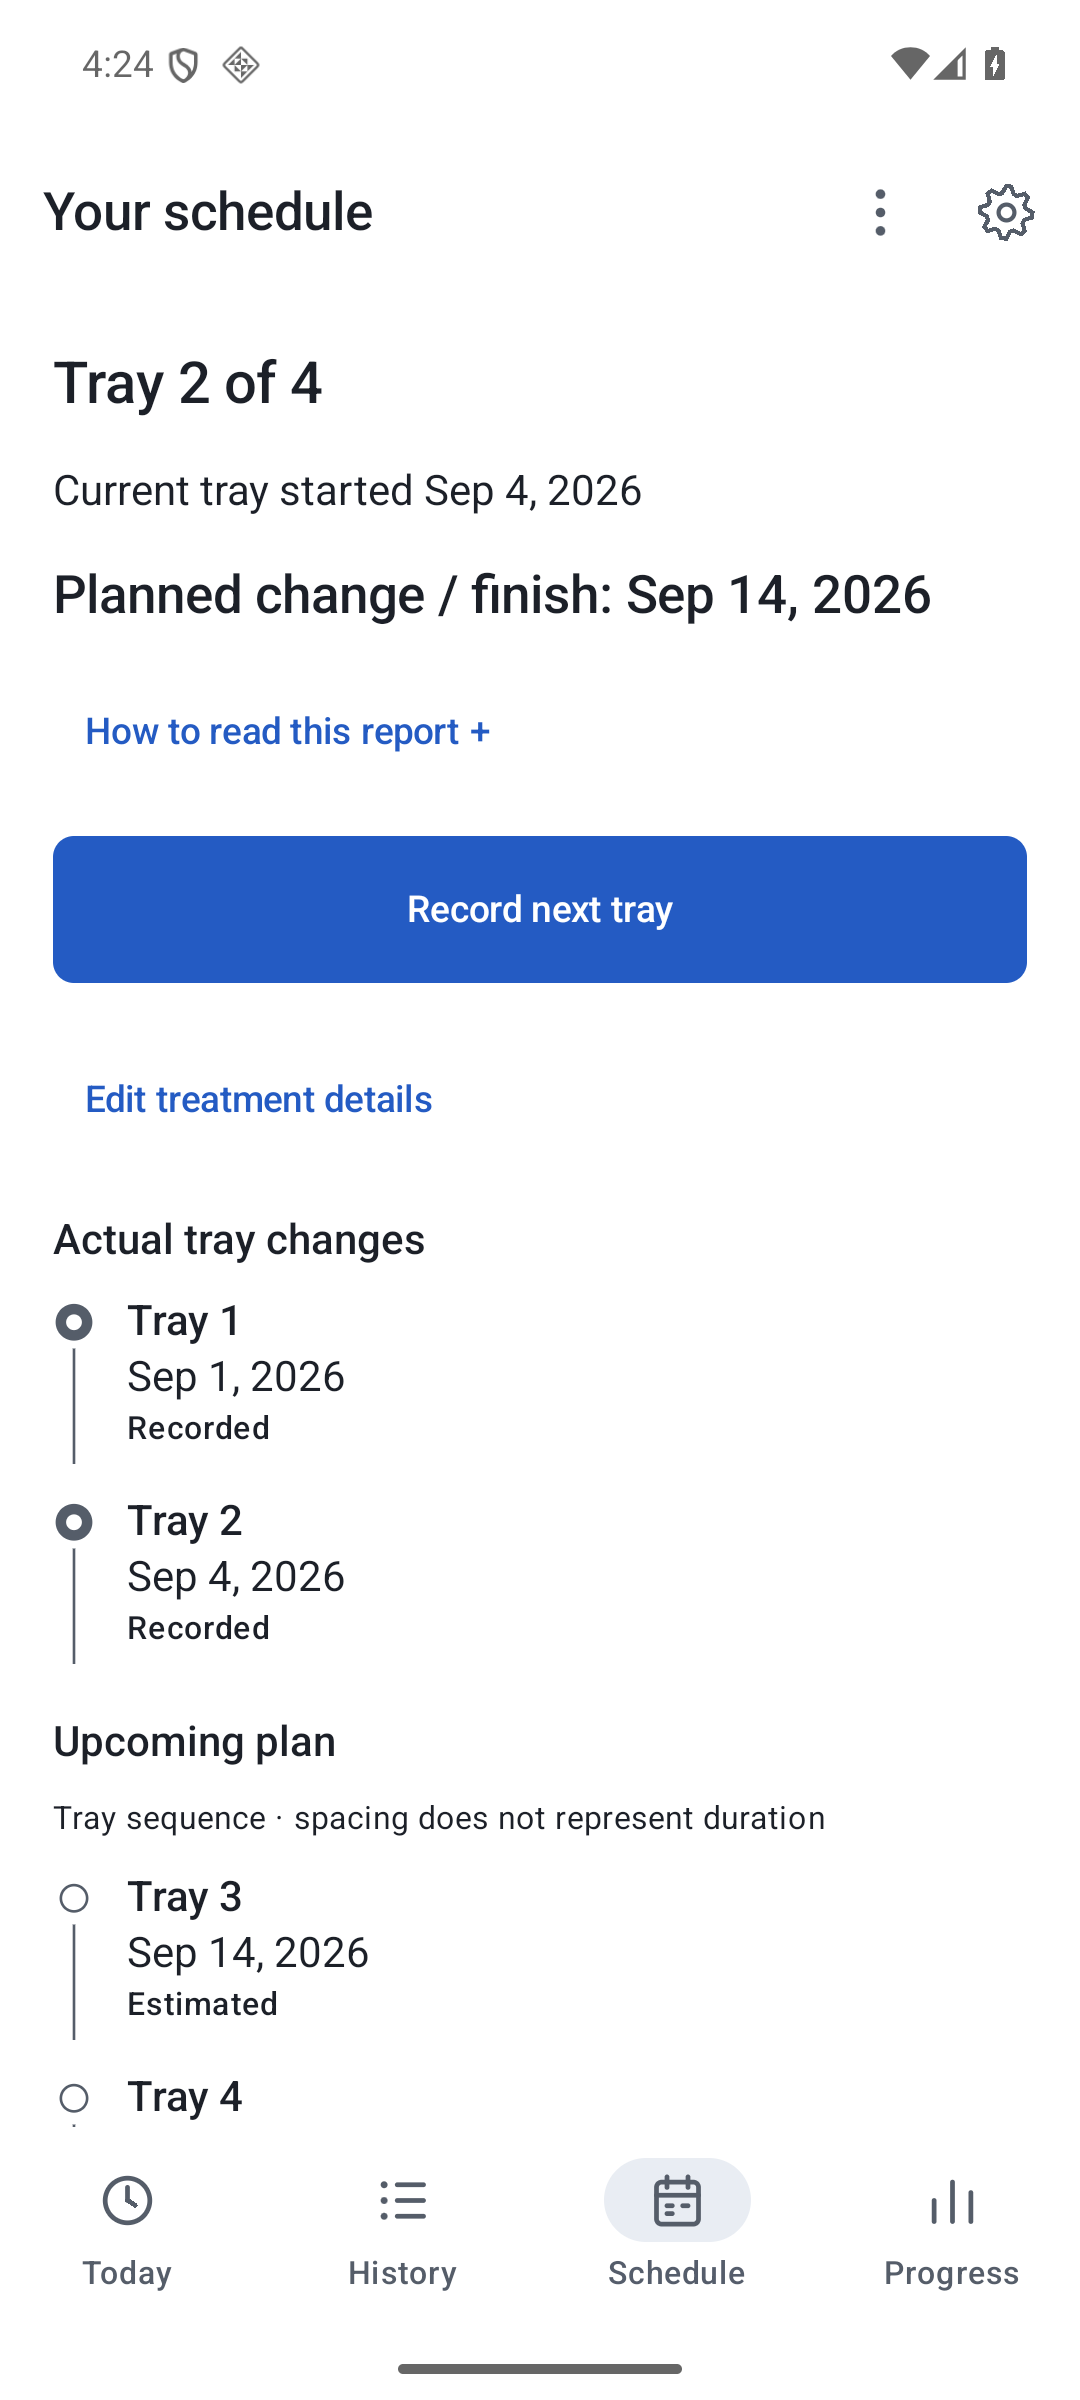
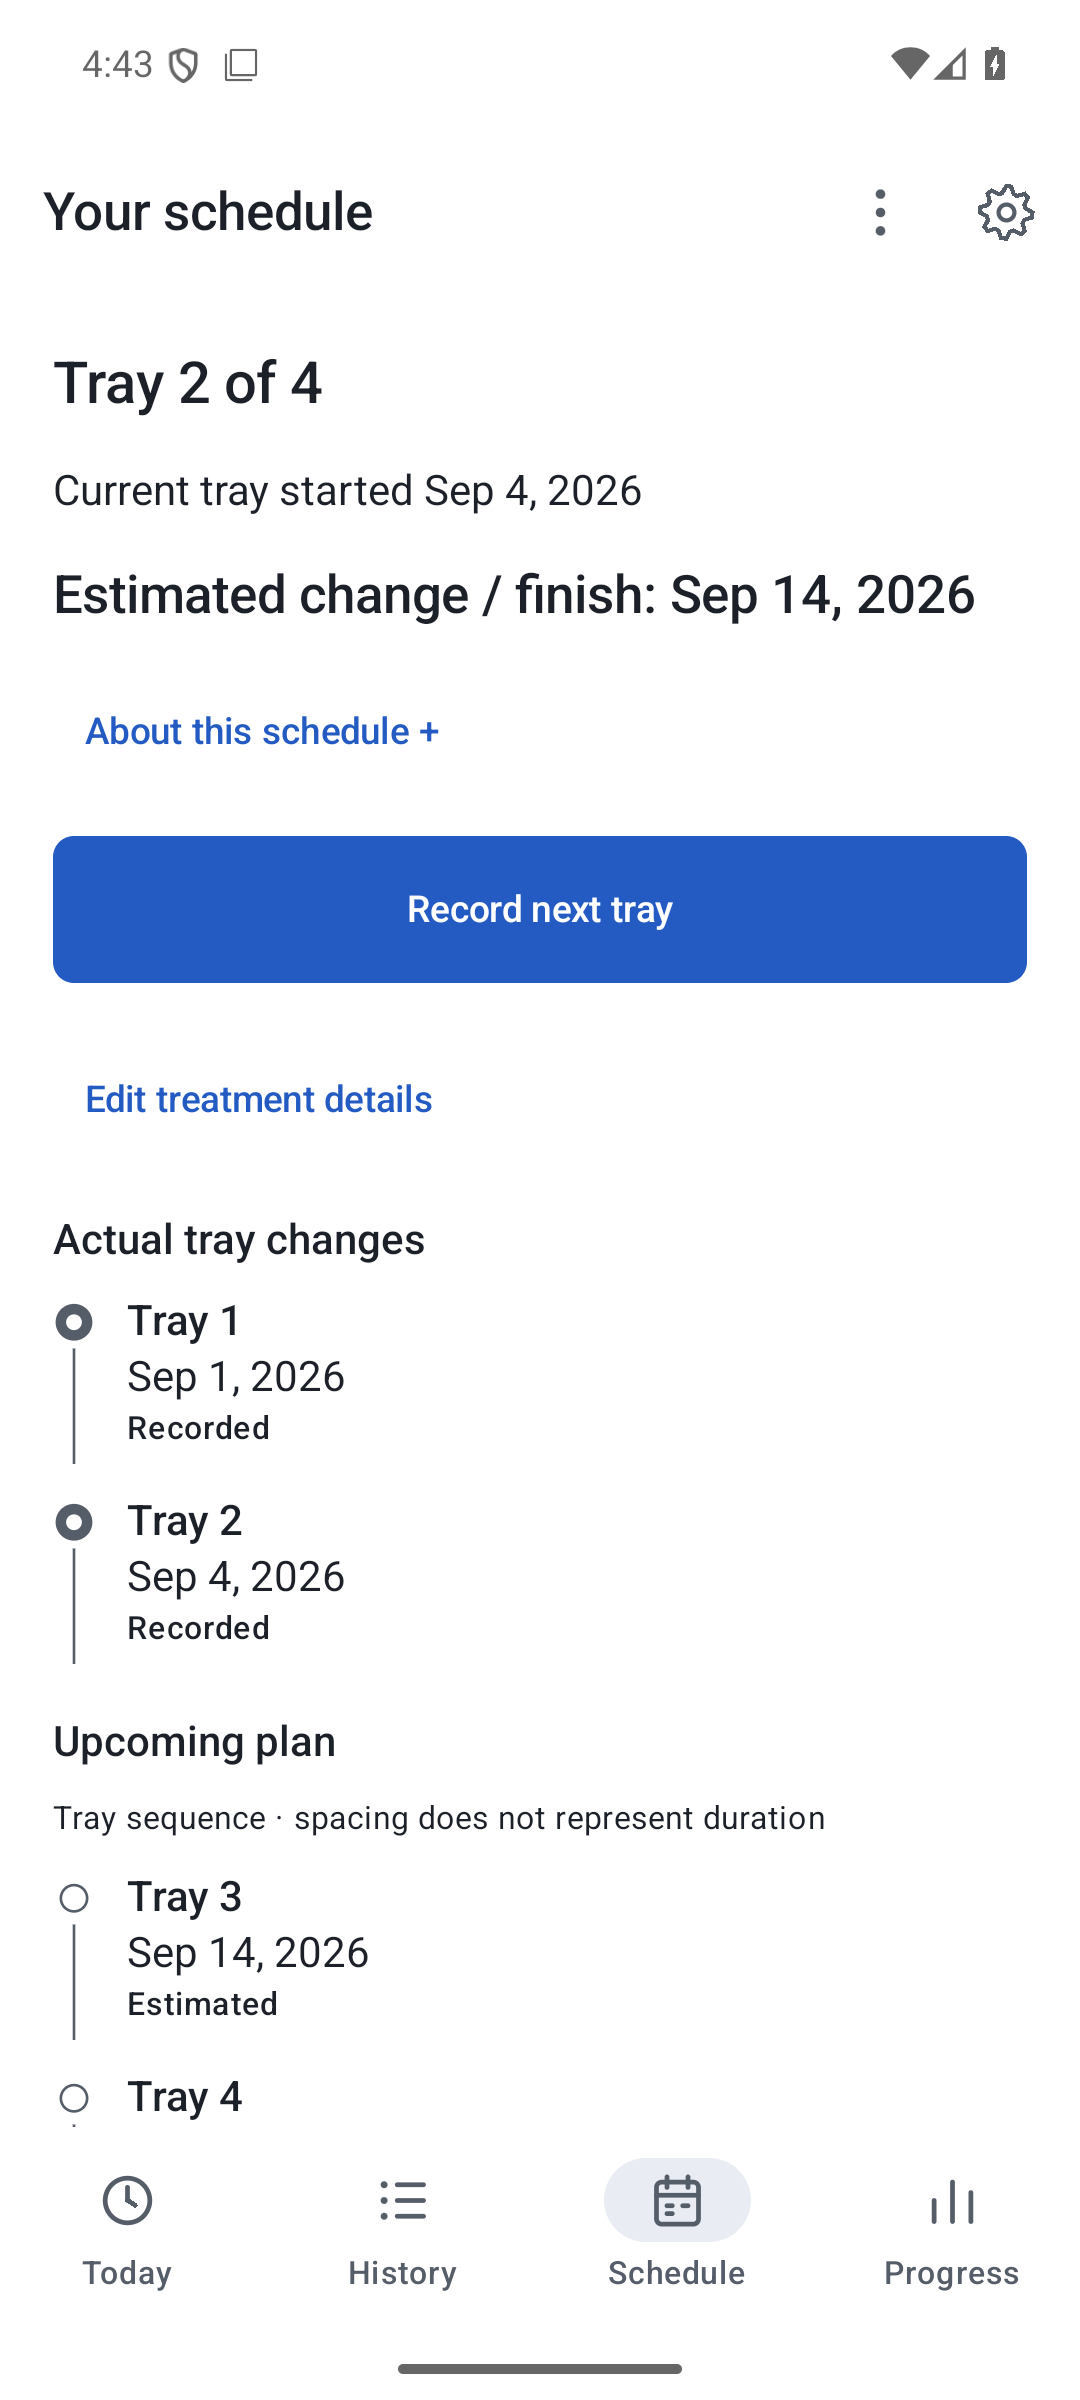
Retain range coverage detail and record rendered upgrade evidence (#37)

diff --git a/app/src/main/java/org/alignertracker/app/ui/ReportsScreen.kt b/app/src/main/java/org/alignertracker/app/ui/ReportsScreen.kt
@@ -83,7 +83,7 @@ fun ReportsScreen(
         }
         item {
             SummaryRow(
-                R.string.report_recorded_total,
+                R.string.range_wear,
                 if (days.any { it.trackedMillis > 0 }) compactDuration(days.sumOf { it.wornMillis })
                 else stringResource(R.string.report_no_record),
             )
@@ -128,6 +128,13 @@ fun ReportsScreen(
             )
             DetailsDisclosure(R.string.time_details) {
                 Text(stringResource(R.string.time_details_body))
+                Text(
+                    stringResource(
+                        R.string.report_out_tracked,
+                        durationLabel(days.sumOf { it.removedMillis }),
+                        durationLabel(days.sumOf { it.trackedMillis }),
+                    )
+                )
             }
         }
         item {

diff --git a/docs/validation-refinement.md b/docs/validation-refinement.md
@@ -28,3 +28,21 @@ Repository checks pass: **63 phone JVM tests + 9 watch JVM tests**, formatting, 
 The initial full phone instrumentation run passed 48/52. Remaining checks required updated native-picker/disclosure selectors, stable lazy-list/keyboard navigation in the appointment test and the documented emulator notification grant. Focused rechecks cover these cases; native Android accessibility checks additionally require bundled TalkBack enabled. These logs describe exported nodes/actions, not human speech/traversal acceptance. Physical Pixel installation, human TalkBack traversal, owner aesthetic acceptance, OEM reminders and paired Wear acceptance are outside this emulator result. No publication is authorized by this candidate preparation.
 
 All **52 unique general phone cases** passed across the initial full run and focused rechecks, rather than one claimed green full-suite run. The five picker cases passed in the [picker recheck](evidence/refinement/picker-appointment-recheck.txt); its appointment scroll failure was corrected and [the exact repeated-time appointment edit passed](evidence/refinement/appointment-preservation.txt). [Native Android accessibility: 2/2 passed](evidence/refinement/platform-accessibility.txt) with bundled TalkBack enabled. Report semantics and notification recovery passed in the [harness recheck](evidence/refinement/harness-recheck.txt). Only harness/selectors changed after the final production-code checks; final formatting passes.
+
+## Initial signed upgrade checkpoint
+
[1 lines of base64/hex data omitted]
+
+The actual downloaded signed6 APK was installed on the disposable emulator, populated with the preserved synthetic fixture and launched. Candidate7 was installed with `adb install -r`, without uninstall between signed versions. Every database table and reminder-preference byte hash matched afterward: [upgrade comparison](evidence/refinement/signed-upgrade.json). [Before upgrade](screenshots/refinement/before/upgrade-today.png) / [after upgrade](screenshots/refinement/after/upgrade-today.png). No schema changes or export/accounting implementation changes; existing serialization, time-math, migration and archive tests pass.
+
[1 lines of base64/hex data omitted]
+
+## Constrained rendering and limits
+
+Inspected [320dp/200% dark](screenshots/refinement/after/small-dark.png), [forced RTL](screenshots/refinement/after/small-dark-rtl.png), [expanded en-XA](screenshots/refinement/after/expanded-small-dark.png) and [ar-XB](screenshots/refinement/after/pseudo-rtl-small-dark.png). Compare [small baseline](screenshots/refinement/before/small-dark.png) and [RTL baseline](screenshots/refinement/before/small-dark-rtl.png). The saved partial fixture is reused; elapsed durations naturally advance. Scrolling is required at these sizes; text is not capped. Native [calendar](screenshots/refinement/after/calendar.png) and [constrained localized input mode](screenshots/refinement/after/calendar-small-dark.png) remain available, with calendar/keyboard controls explicitly labelled. Native input mode avoids forcing a seven-column calendar into a narrow, enlarged-text viewport.
+
+These are sampled configurations and journeys, not exhaustive coverage of every screen/state/configuration combination. Real-language translation, human TalkBack speech/traversal, physical font/keyboard behavior and owner aesthetics remain unverified. The standalone Wear emulator attempt exited before tests; watch JVM tests and both builds passed, but this run adds no paired-watch acceptance. Two emulator process exits during concurrent work were recovered by using the phone sequentially; they were not attributed to app crashes. No accounts, external service, physical installation or publication was added.
+
+The first file-only comparison was superseded: copied fixture directories retained the previous debug UID SELinux category and prevented release reads. The emulator fixture labels were corrected to the installed package context. The repeated signed6→7 check verified rendered records on both versions and exact table/preference equality. This was a fixture setup error, not a persistence migration.
+
+Native [12-hour clock](screenshots/refinement/after/clock.png), [320dp/200% clock](screenshots/refinement/after/clock-small-dark.png) and [scrolled confirmation controls](screenshots/refinement/after/clock-small-dark-actions.png) were inspected. Clock values remain legible and Save/Cancel are reachable by scrolling.

diff --git a/docs/release.md b/docs/release.md
@@ -183,3 +183,7 @@ The owner subsequently requested “Deploy latest version”; version 5 was publ
 to the existing Tailscale-only phone store on 2026-09-10. The earlier candidate-only
 statements record preparation status before that authorization. Wear remains a local
 companion artifact and was not added to the phone catalogue.
+
+## Unpublished visual and picker candidate 7
+
+Owner-requested refinement #37 is prepared from `681ae2f`, tag `visual-time-candidate-7`, with versionCode7 and the existing app identity. [Validation and signed6→7 data-preservation evidence](validation-refinement.md). Local installable bundle: `/home/matejkalc/.local/share/aligner-tracker/releases/visual-time-candidate-7/`. This does not replace the published version6 or authorize installation onto the owner phone. Owner aesthetic and physical acceptance remain open.

diff --git a/docs/roadmap.md b/docs/roadmap.md
@@ -56,3 +56,7 @@ The version4 warm/pine composition was rejected by the owner. Candidate5 on
 It retains PR35/#34's connection fix. PR integration, private publication, owner
 aesthetic acceptance and physical gates remain distinct. Publication of4 does
 not authorize publication of5.
+
+## Visual information and native pickers — #37
+
+Version7 refines the accepted version6 foundation: recorded-time bars, historical target markers, recorded/estimated tray sequence, Settings-only timezone presentation and native date/time interactions. [Design decisions and primary sources](visual-time-refinement.md); [tests, screenshots and signed upgrade](validation-refinement.md). Candidate is unpublished; PR review and owner/physical acceptance remain separate.
